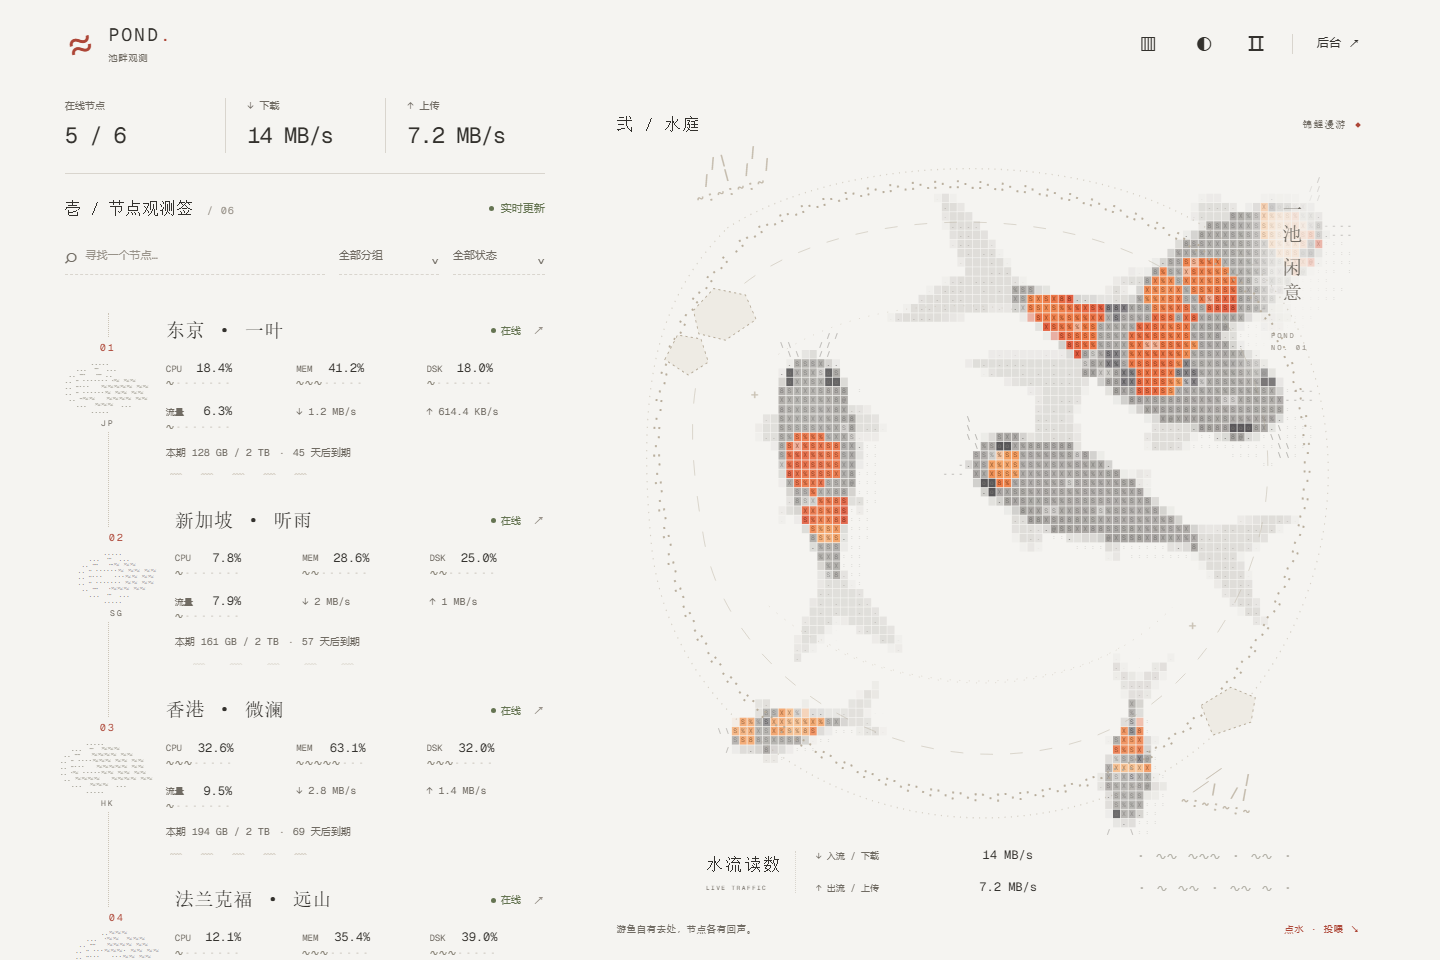
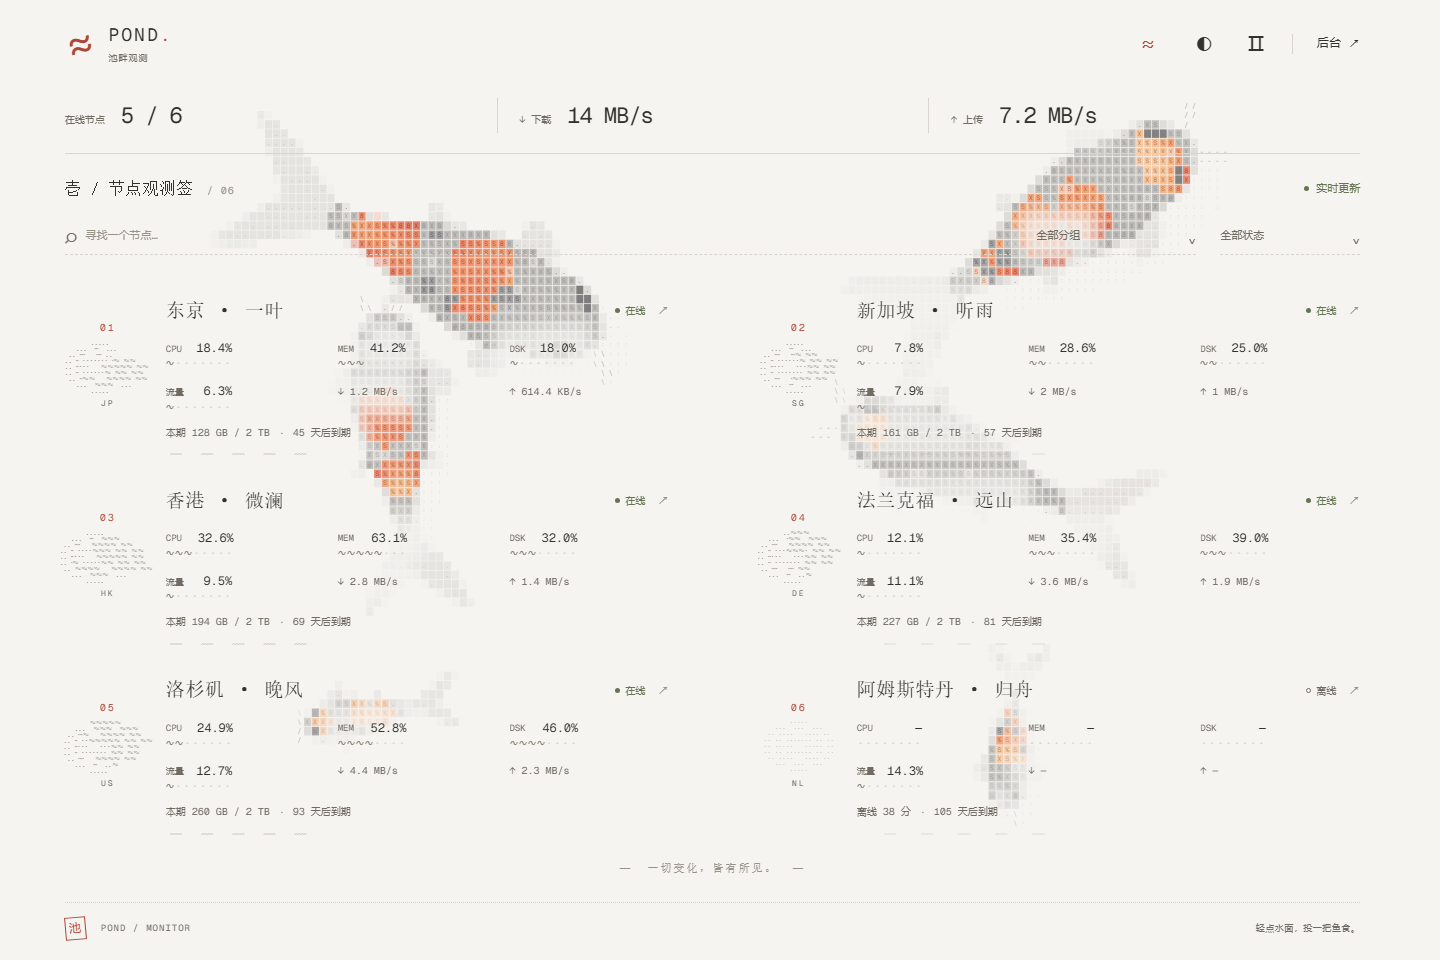
Refine compact homepage and default to ambient pond

diff --git a/src/App.tsx b/src/App.tsx
@@ -212,7 +212,8 @@ export default function App() {
   };
   const pondEnabled = settings.pond_enabled && !pondFailed;
   const ambient = route !== null || display === "ambient";
-  const hasIntro = Boolean(settings.hero_eyebrow.trim() || settings.hero_title.trim() || settings.hero_subtitle.trim());
+  const hasTitle = Boolean(settings.hero_title.trim());
+  const hasIntro = hasTitle || Boolean(settings.hero_eyebrow.trim() || settings.hero_subtitle.trim());
   return (
     <>
       <PondLayer
@@ -224,7 +225,7 @@ export default function App() {
         onUnavailable={unavailable}
       />
       {ambient && <div className="ambient-water" data-pond-habitat data-pond-overflow="visible" data-pond-scene="ambient" aria-hidden="true" />}
-      <div className={"site-shell" + (route !== null ? " has-detail" : "") + (ambient ? " ambient-scene" : "") + (route === null && ambient ? " home-ambient" : "") + (route === null && !hasIntro ? " home-compact" : "")}>
+      <div className={"site-shell" + (route !== null ? " has-detail" : "") + (ambient ? " ambient-scene" : "") + (route === null && ambient ? " home-ambient" : "") + (route === null && !hasTitle ? " home-compact" : "")}>
         <a className="skip-link" href="#main">
           跳到主要内容
         </a>

diff --git a/src/pond-page.css b/src/pond-page.css
@@ -1474,7 +1474,7 @@ button:focus-visible, a:focus-visible, input:focus-visible, select:focus-visible
   .home-ambient .filters { grid-template-columns: minmax(0,1fr) 160px 140px; gap: 24px; }
 }
 
-/* With no intro copy, the readings form a quiet masthead directly above the roster. */
+/* Without a main title, optional copy and readings share a compact masthead. */
 .home-compact .scene-heading {
   display: flex;
   flex-direction: column;
@@ -1483,6 +1483,8 @@ button:focus-visible, a:focus-visible, input:focus-visible, select:focus-visible
   padding: 10px 0 20px;
   margin-bottom: 0;
 }
+.home-compact .intro { display: flex; flex-direction: column; gap: 8px; }
+.home-compact .intro p { margin: 0; line-height: 1.6; letter-spacing: 1px; }
 .home-compact .summary {
   display: grid;
   grid-template-columns: repeat(3, minmax(0, 1fr));

diff --git a/README.md b/README.md
@@ -12,11 +12,11 @@
 
 节点以文字、波纹刻度与水纹印记呈现。你可以查看服务器状态，也可以停下来，往水面投一把鱼食。
 
-![纸白水庭](previews/overview-light.png)
+![纸白游鱼背景](previews/home-ambient-light.png)
 
 ## 两种显示方式
 
-同一方池塘，两种观看方式。点击页头配色按钮左侧的 **▥ / ≈** 图标即可切换，选择会自动记住。
+同一方池塘，两种观看方式，默认使用游鱼背景。点击页头配色按钮左侧的 **▥ / ≈** 图标即可切换，选择会自动记住。
 
 <table>
   <tr>
@@ -102,14 +102,14 @@
 | 首页标题 | 空 | 首页主标题，留空隐藏 |
 | 首页副标题 | 空 | 主标题下方的文字，留空隐藏 |
 | 默认背景色 | 跟随系统 | 可选纸白（浅色）、暖黑（深色）或跟随系统 |
-| 默认显示模式 | 水庭模式 | 可选水庭模式或游鱼背景模式 |
+| 默认显示模式 | 游鱼背景模式 | 可选水庭模式或游鱼背景模式 |
 | 显示锦鲤池塘 | 开启 | 控制是否显示游鱼 |
 | 允许投喂 | 开启 | 控制水面投喂交互 |
 | 显示到期信息 | 开启 | 控制节点到期信息的展示 |
 
 后台设置决定访客首次打开页面时的背景色与显示模式。访客手动切换过后，优先使用当前浏览器保存的个人选择。
 
-首页默认直接呈现实时汇总、节点名册与池塘。需要标题文案时，可在主题设置中填写；已有的自定义文案会保留，将三项清空即可使用紧凑布局。
+首页默认直接呈现实时汇总、节点名册与游鱼背景。需要标题文案时，可在主题设置中填写；已有的自定义文案会保留。不填写主标题时，小标题、副标题和汇总读数会自动紧凑排列，让节点名册更早进入视野。
 
 ## 开源许可
 
